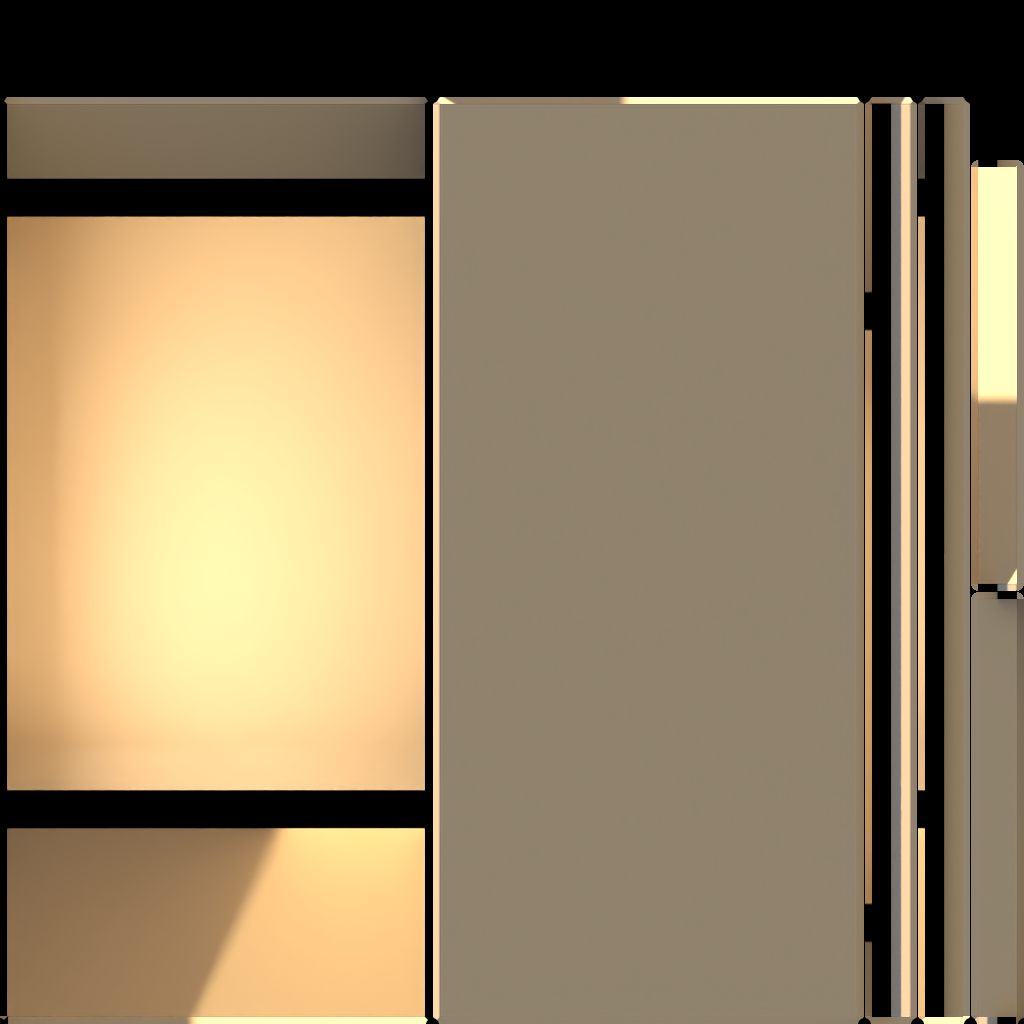
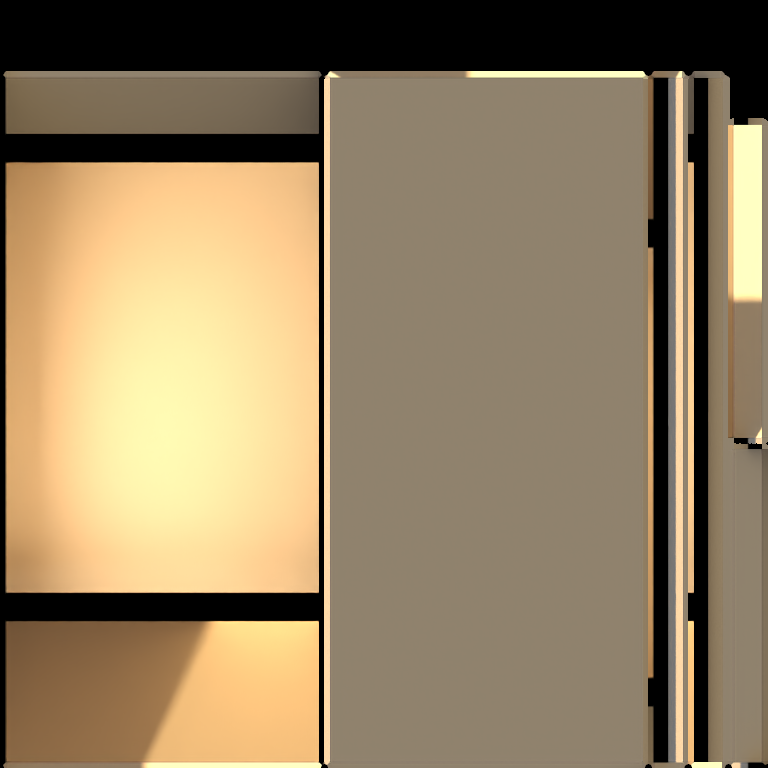
Bake the studio lighting and apply it to the browser scene
Cycles now works the lighting out once, offline, and the browser draws the
result. The fifteen large static surfaces -- floor, ceiling, every wall, the
desk top -- carry COMBINED bakes on a second UV channel, and the runtime
draws them with MeshBasicMaterial: unlit, because a lit material would light
already-lit pixels a second time.

Baking is resumable, which is not a nicety here. Two earlier runs died within
minutes of the session going idle: this container suspends background work,
so a long bake cannot outlive the conversation that started it. Each surface
is now written as it finishes, existing outputs are skipped, and a time
budget stops a run cleanly for the next one to continue. Fifteen surfaces
took two foreground chunks and no crashes.

Also fixes a self-inflicted colour cast: the CRT spill light sat 30cm from
the keyboard, where inverse-square decay made a nominal 1.6 behave like 18,
tinting every warm surface on the desk mint.

Claude-Session: https://claude.ai/code/session_014eX4kKgLLnZygrhGQMQxPJ

diff --git a/web/artifact-app.js b/web/artifact-app.js
@@ -35,17 +35,18 @@ css.setSize(innerWidth, innerHeight);
 $("css3d").appendChild(css.domElement);
 
 /* Stand-in for the Cycles bake: a warm window key, a lamp pool, a cool fill. */
-scene.add(new THREE.HemisphereLight(0xffeed4, 0x3b2f24, 0.70));
+const hemi = new THREE.HemisphereLight(0xffeed4, 0x3b2f24, 0.70);
+scene.add(hemi);
 const sun = new THREE.DirectionalLight(0xffd49a, 1.9);
 sun.position.set(-4.6, 3.2, -2.4);
 scene.add(sun);
-const lamp = new THREE.PointLight(0xffc27a, 6.5, 4.2, 2);
+const lamp = new THREE.PointLight(0xffc98a, 6.5, 4.4, 2);
 lamp.position.set(0.84, 1.28, -0.47);
 scene.add(lamp);
 const fill = new THREE.PointLight(0x9fb8e8, 2.2, 10, 2);
 fill.position.set(0.1, 2.3, 0.9);
 scene.add(fill);
-const glowCRT = new THREE.PointLight(0x7fd4d8, 1.6, 1.6, 2);
+const glowCRT = new THREE.PointLight(0xa9dee2, 0.45, 1.15, 2);
 glowCRT.position.set(0.02, 1.03, 0.10);
 scene.add(glowCRT);
 
@@ -101,11 +102,22 @@ setTimeout(() => {
     gltf.scene.traverse((o) => { if (o.isLight) strays.push(o); });
     strays.forEach((l) => l.removeFromParent());
     scene.add(gltf.scene);
-    let tris = 0;
+    let tris = 0, baked = 0;
     gltf.scene.traverse((o) => {
       if (!o.isMesh) return;
       if (o.geometry?.index) tris += o.geometry.index.count / 3;
       const m = o.material;
+      /* A COMBINED bake already contains albedo, direct light and bounce, so
+         these surfaces must be drawn unlit -- a lit material would light
+         already-lit pixels a second time. */
+      if (m && m.name && m.name.startsWith("Baked_") && m.map) {
+        const flat = new THREE.MeshBasicMaterial({ map: m.map });
+        flat.map.channel = 1;              // sampled through the Lightmap UVs
+        flat.name = m.name;
+        o.material = flat;
+        baked++;
+        return;
+      }
       if (m) {
         if (m.transmission > 0) {
           m.transmission = 0; m.transparent = true;
@@ -132,6 +144,17 @@ setTimeout(() => {
       }
     }
     $("tris").textContent = Math.round(tris).toLocaleString();
+    $("baked").textContent = baked ? baked + " surfaces" : "none";
+    // The room's big surfaces carry their own light now; the remaining lamps
+    // only need to shape the props.
+    if (baked) {
+      // The room lights itself now; these only shape the props on the desk.
+      sun.intensity = 1.05;
+      hemi.intensity = 0.42;
+      fill.intensity = 1.5;
+      lamp.intensity = 8.0;
+      gl.toneMappingExposure = 1.12;
+    }
     ready = true;
     $("barf").style.width = "100%";
     const l = $("load");
@@ -273,7 +296,15 @@ window.__dbg = {
   lights: () => { const L=[]; scene.traverse(o=>{ if(o.isLight) L.push({t:o.type,i:o.intensity}); }); return L; },
   killLights: () => { scene.traverse(o=>{ if(o.isLight) o.intensity=0; }); },
   emissive: () => { const E=[]; scene.traverse(o=>{ const m=o.material; if(m&&m.emissive){ const s=(m.emissive.r+m.emissive.g+m.emissive.b)*(m.emissiveIntensity||1); if(s>0.05) E.push({n:o.name,s:+s.toFixed(2)}); } }); return E.sort((a,b)=>b.s-a.s).slice(0,10); },
-  exposure: (v) => { gl.toneMappingExposure = v; }
+  exposure: (v) => { gl.toneMappingExposure = v; },
+  matInfo: (frag) => { const R=[]; scene.traverse(o=>{ const m=o.material;
+      if(m && m.name && m.name.toLowerCase().includes(frag)){
+        R.push({mat:m.name, type:m.type,
+                color:m.color?[+m.color.r.toFixed(3),+m.color.g.toFixed(3),+m.color.b.toFixed(3)]:null,
+                vcol:!!m.vertexColors, hasVertexAttr:!!(o.geometry&&o.geometry.attributes.color),
+                sheen:m.sheen, sheenColor:m.sheenColor?[+m.sheenColor.r.toFixed(2),+m.sheenColor.g.toFixed(2),+m.sheenColor.b.toFixed(2)]:null,
+                trans:m.transmission, opacity:m.opacity});}});
+      return R.slice(0,4); }
 };
 
 /* three.js fov is vertical, so a portrait phone would crop the room to a

diff --git a/scene/webexport.py b/scene/webexport.py
@@ -25,11 +25,16 @@ import bpy
 from . import palette as P
 from . import util as U
 
-# surfaces worth spending texture memory on
-LIGHTMAP_PREFIXES = (
-    "Floor", "Ceiling", "BackWall", "Left_", "RightWall", "Back_",
-    "Desk_Top", "Desk_Batten", "Wall_", "Win_Reveal",
-)
+# Surfaces worth spending texture memory on: large, flat and static.
+# Match on exact names, not prefixes -- "Back_" once caught all 54 props in
+# the meeting room and set the baker grinding 1024px lightmaps for plant soil.
+LIGHTMAP_NAMES = frozenset((
+    "Floor", "Ceiling", "RightWall",
+    "BackWall_0", "BackWall_1", "BackWall_Header",
+    "Left_Below", "Left_Above", "Left_Front", "Left_Back",
+    "Back_LeftWall", "Back_RightWall", "Back_EndWall",
+    "Desk_Top", "Desk_Batten",
+))
 
 # materials whose look lives in a node graph rather than a flat colour
 PROCEDURAL_MATERIALS = (
@@ -52,7 +57,8 @@ def _select_only(objs):
 
 
 def wants_lightmap(obj):
-    return any(obj.name.startswith(p) for p in LIGHTMAP_PREFIXES)
+    """Blender appends .001/.002 to duplicate names; compare on the stem."""
+    return obj.name.split(".")[0] in LIGHTMAP_NAMES
 
 
 # --------------------------------------------------------------------------
@@ -190,13 +196,28 @@ def bake_vertex_lighting(samples=64, limit=None):
     return done, failed
 
 
-def bake_lightmaps(size=1024, samples=128, out_dir="export/lightmaps"):
-    """Bake full lighting into a texture per large surface."""
+def bake_lightmaps(size=1024, samples=128, out_dir="export/lightmaps",
+                   time_budget=None, skip_existing=True):
+    """Bake full lighting into a texture per large surface.
+
+    Resumable on purpose. A long bake cannot rely on outliving the session
+    that started it, so each surface is written as it finishes, existing
+    outputs are skipped, and `time_budget` stops the run cleanly part-way
+    through for the next invocation to pick up.
+    """
+    import time as _time
+    started = _time.time()
     _bake_settings(samples=samples)
     os.makedirs(out_dir, exist_ok=True)
-    written = []
+    written, remaining = [], 0
     for obj in _mesh_objects():
         if not wants_lightmap(obj) or "Lightmap" not in obj.data.uv_layers:
+            continue
+        dest = os.path.join(out_dir, "LM_%s.png" % obj.name)
+        if skip_existing and os.path.exists(dest):
+            continue
+        if time_budget and _time.time() - started > time_budget:
+            remaining += 1
             continue
         img = bpy.data.images.new("LM_" + obj.name, size, size,
                                   float_buffer=False)
@@ -216,17 +237,20 @@ def bake_lightmaps(size=1024, samples=128, out_dir="export/lightmaps"):
         _select_only([obj])
         try:
             bpy.ops.object.bake(type="COMBINED")
-            path = os.path.join(out_dir, "LM_%s.png" % obj.name)
-            img.filepath_raw = os.path.abspath(path)
+            img.filepath_raw = os.path.abspath(dest)
             img.file_format = "PNG"
             img.save()
-            written.append(path)
-        except RuntimeError:
-            pass
+            written.append(dest)
+            print("      baked %s (%.0fs)" % (obj.name, _time.time() - started),
+                  flush=True)
+        except RuntimeError as err:
+            print("      FAILED %s: %s" % (obj.name, err), flush=True)
         for mat, node in nodes_added:
             mat.node_tree.nodes.remove(node)
         obj.data.uv_layers.active = obj.data.uv_layers[0]
         bpy.data.images.remove(img)
+    if remaining:
+        print("      %d left for the next run" % remaining, flush=True)
     return written
 
 
@@ -289,6 +313,59 @@ def tame_emission(cap=2.5):
                 node.inputs["Strength"].default_value = cap
                 tamed += 1
     return tamed
+
+
+def apply_lightmaps(in_dir="export/lightmaps", as_jpeg=True, quality=88):
+    """Wire the baked lightmaps back in as each surface's colour.
+
+    These are COMBINED bakes, so the texture already carries albedo, direct
+    light and bounce together. The material becomes a flat unlit lookup of it,
+    sampled through the Lightmap UV channel; the runtime then draws these
+    surfaces with no lighting at all and gets the Cycles result for free.
+    """
+    applied = []
+    for obj in _mesh_objects():
+        if not wants_lightmap(obj):
+            continue
+        path = os.path.join(in_dir, "LM_%s.png" % obj.name)
+        if not os.path.exists(path):
+            continue
+        img = bpy.data.images.load(os.path.abspath(path), check_existing=True)
+        if as_jpeg:
+            # PNG lightmaps dominate the payload; JPEG is fine for smooth
+            # lighting gradients and roughly a fifth of the bytes.
+            img.file_format = "JPEG"
+            try:
+                bpy.context.scene.render.image_settings.quality = quality
+            except AttributeError:
+                pass
+
+        mat = bpy.data.materials.new("Baked_" + obj.name)
+        mat.use_nodes = True
+        nt = mat.node_tree
+        nt.nodes.clear()
+        out = nt.nodes.new("ShaderNodeOutputMaterial")
+        out.location = (400, 0)
+        bsdf = nt.nodes.new("ShaderNodeBsdfPrincipled")
+        bsdf.location = (120, 0)
+        bsdf.inputs["Roughness"].default_value = 1.0
+        bsdf.inputs["Metallic"].default_value = 0.0
+        if "Specular IOR Level" in bsdf.inputs:
+            bsdf.inputs["Specular IOR Level"].default_value = 0.0
+        tex = nt.nodes.new("ShaderNodeTexImage")
+        tex.location = (-200, 0)
+        tex.image = img
+        uv = nt.nodes.new("ShaderNodeUVMap")
+        uv.location = (-420, 0)
+        uv.uv_map = "Lightmap"
+        nt.links.new(uv.outputs["UV"], tex.inputs["Vector"])
+        nt.links.new(tex.outputs["Color"], bsdf.inputs["Base Color"])
+        nt.links.new(bsdf.outputs["BSDF"], out.inputs["Surface"])
+
+        obj.data.materials.clear()
+        obj.data.materials.append(mat)
+        applied.append(obj.name)
+    return applied
 
 
 def bake_material_albedo(size=1024, out_dir="export/albedo"):
